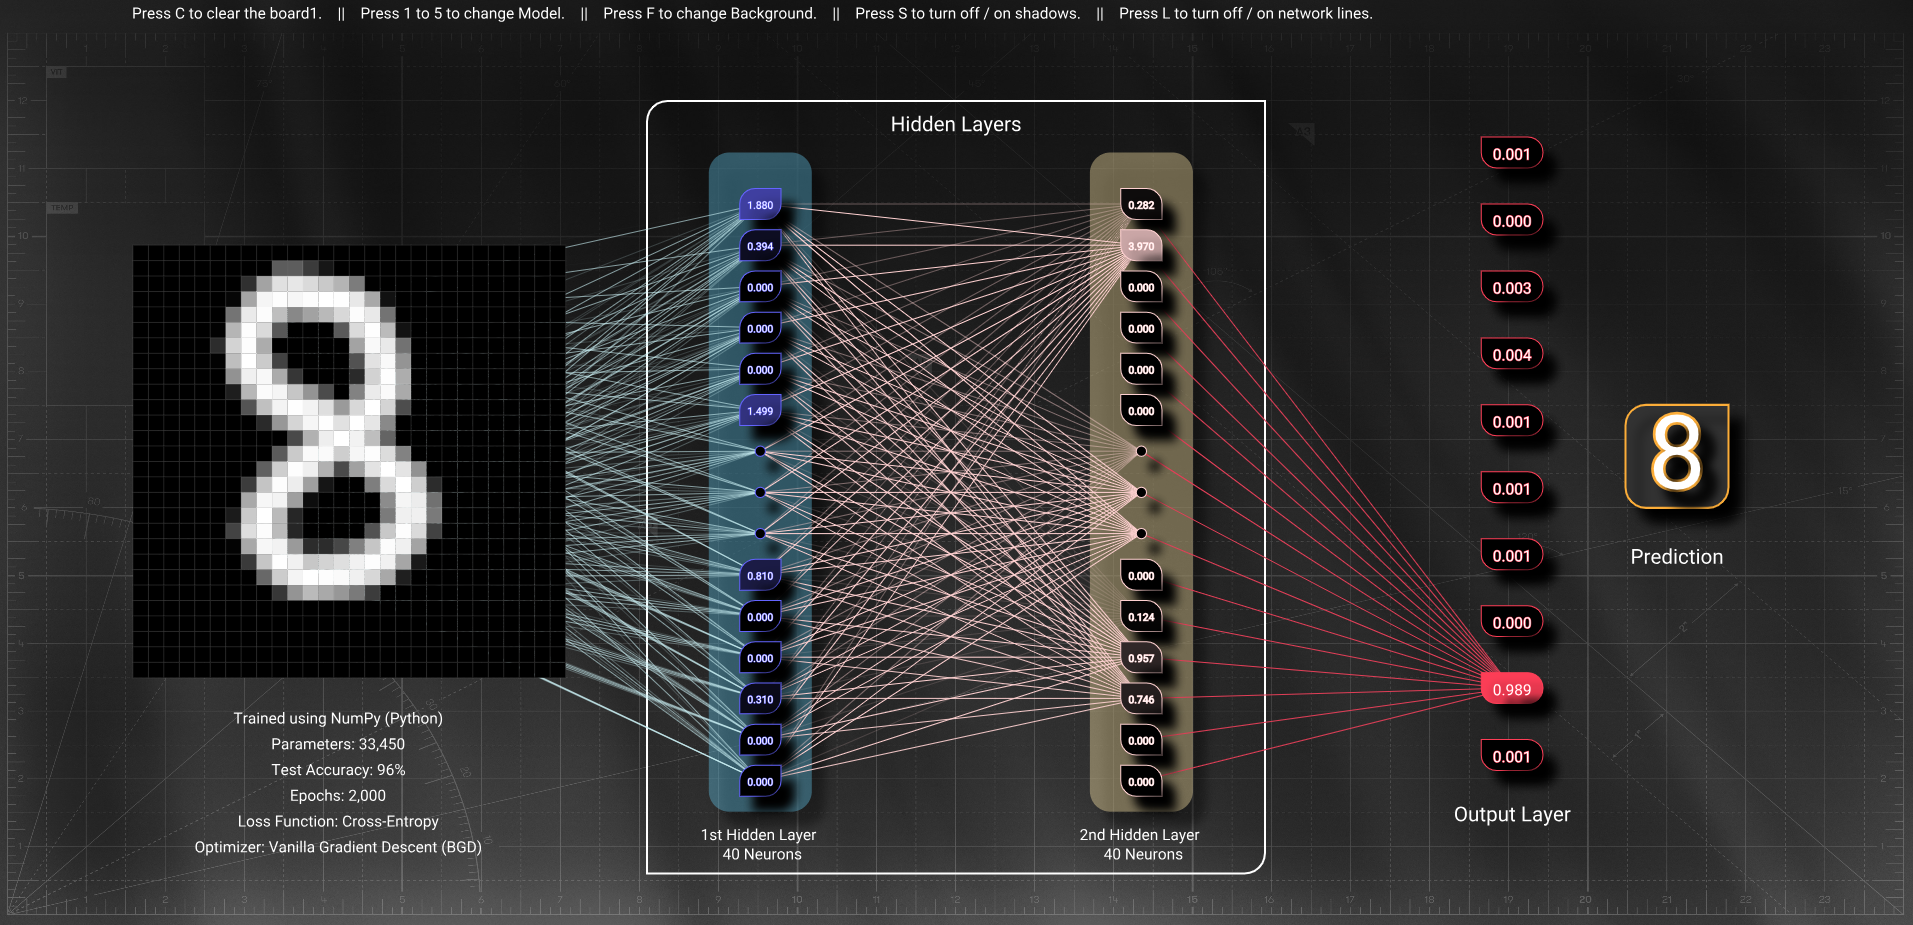
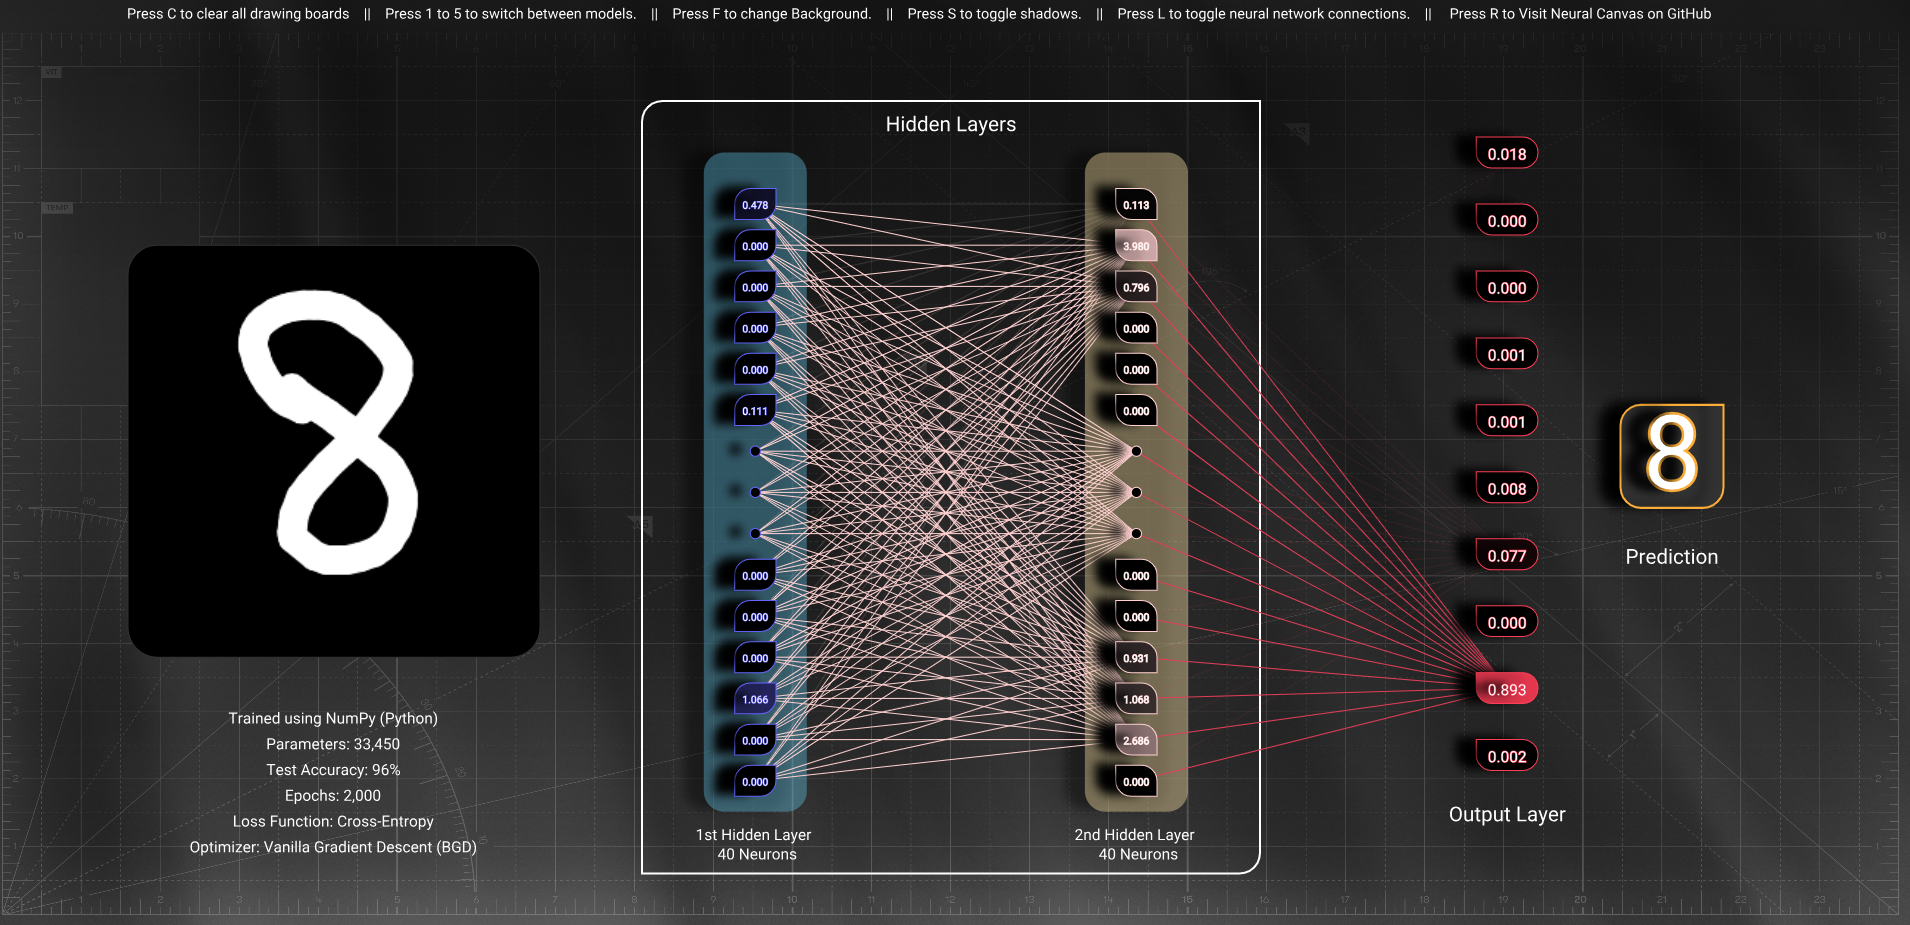
updated the skectch.js file, added the github link, updated the screenshots

diff --git a/sketch.js b/sketch.js
@@ -77,8 +77,8 @@ function draw() {
   
 
   push();
-  textSize(15); fill(255); textLeading(40);
-  text("Press C to clear the board1.\t\t||\t\tPress 1 to 5 to change Model.\t\t||\t\tPress F to change Background.\t\t||\t\tPress S to turn off / on shadows.\t\t||\t\tPress L to turn off / on network lines.", 0, 20);
+  textSize(14); fill(255); textLeading(40);
+  text("Press C to clear all drawing boards\t\t||\t\tPress 1 to 5 to switch between models.\t\t||\t\tPress F to change Background.\t\t||\t\tPress S to toggle shadows.\t\t||\t\tPress L to toggle neural network connections.\t\t||\t\t Press R to Visit Neural Canvas on GitHub", 0, 20);
   pop();
 
   pop();
@@ -122,5 +122,6 @@ function keyPressed() {
   if (k === "s") show_shadow = !show_shadow;
   if (k === "l") show_lines = !show_lines;
   if (k === "f") bg_img_index = (bg_img_index + 1) % bg_img.length;
+  if (k === "r") window.open("https://github.com/MuhammadEssa2002/neural_canvas","_blank");
   if ("12345".includes(k) && k !== "") active = int(k) - 1;
 }
